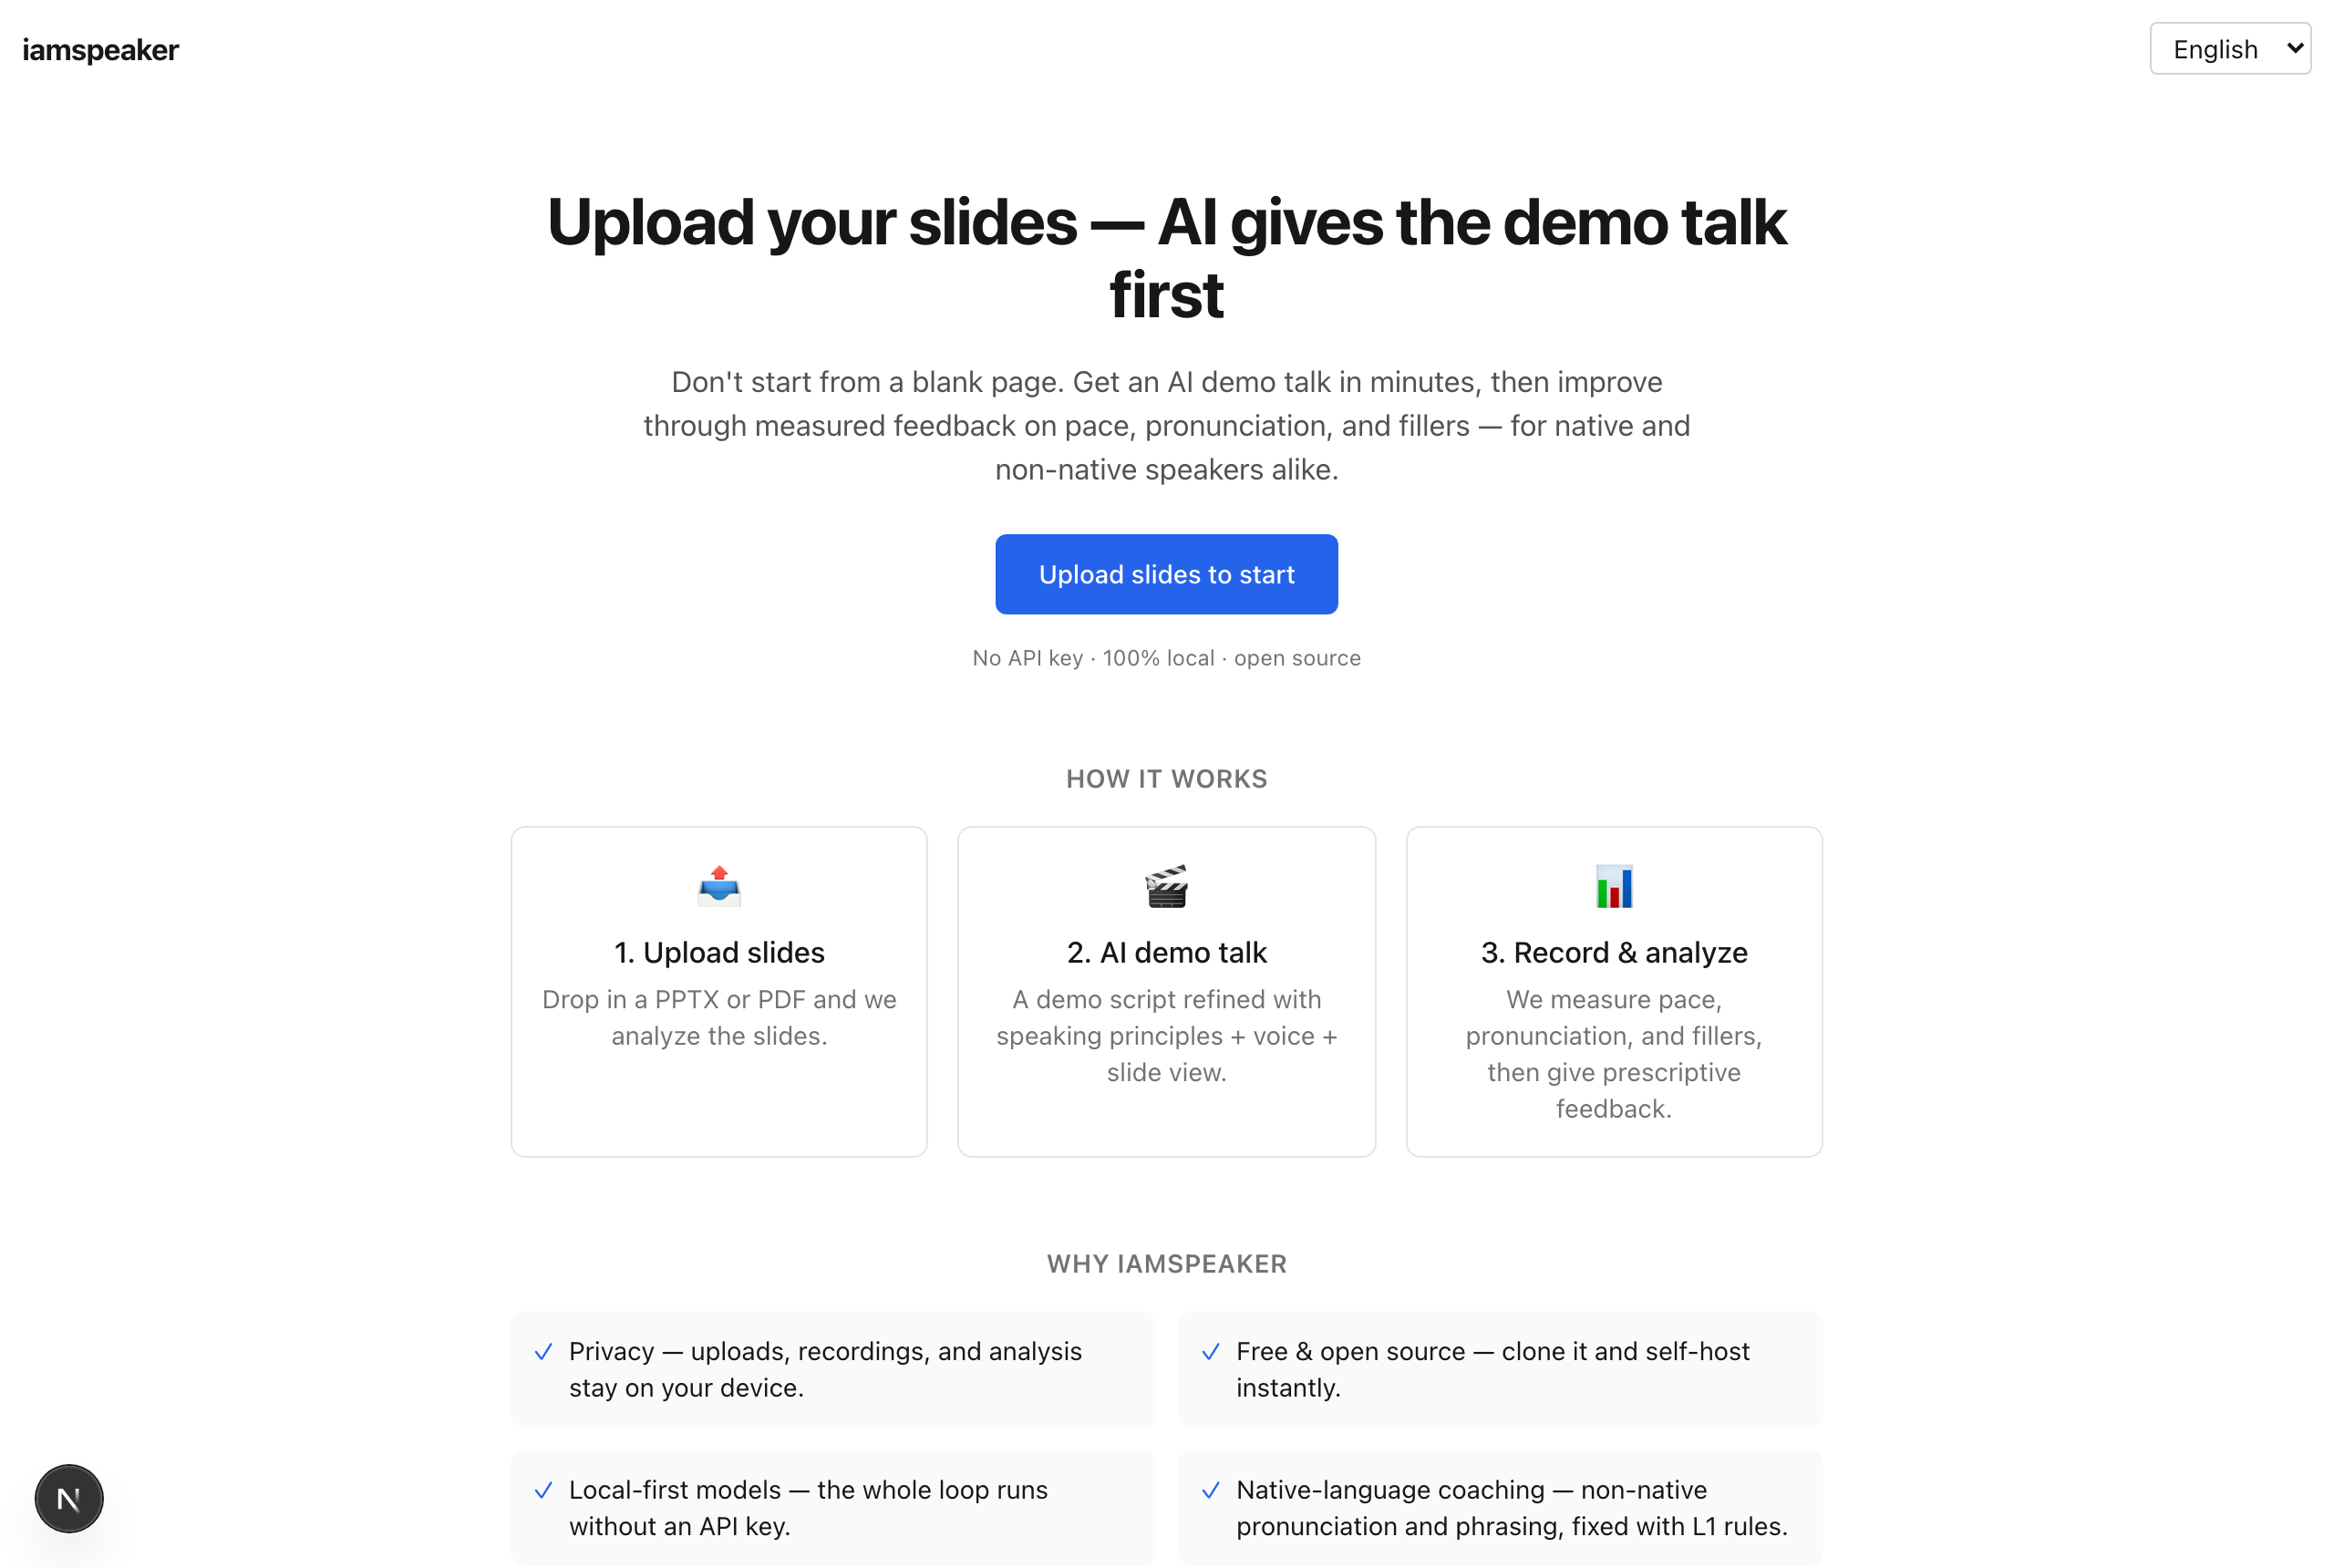
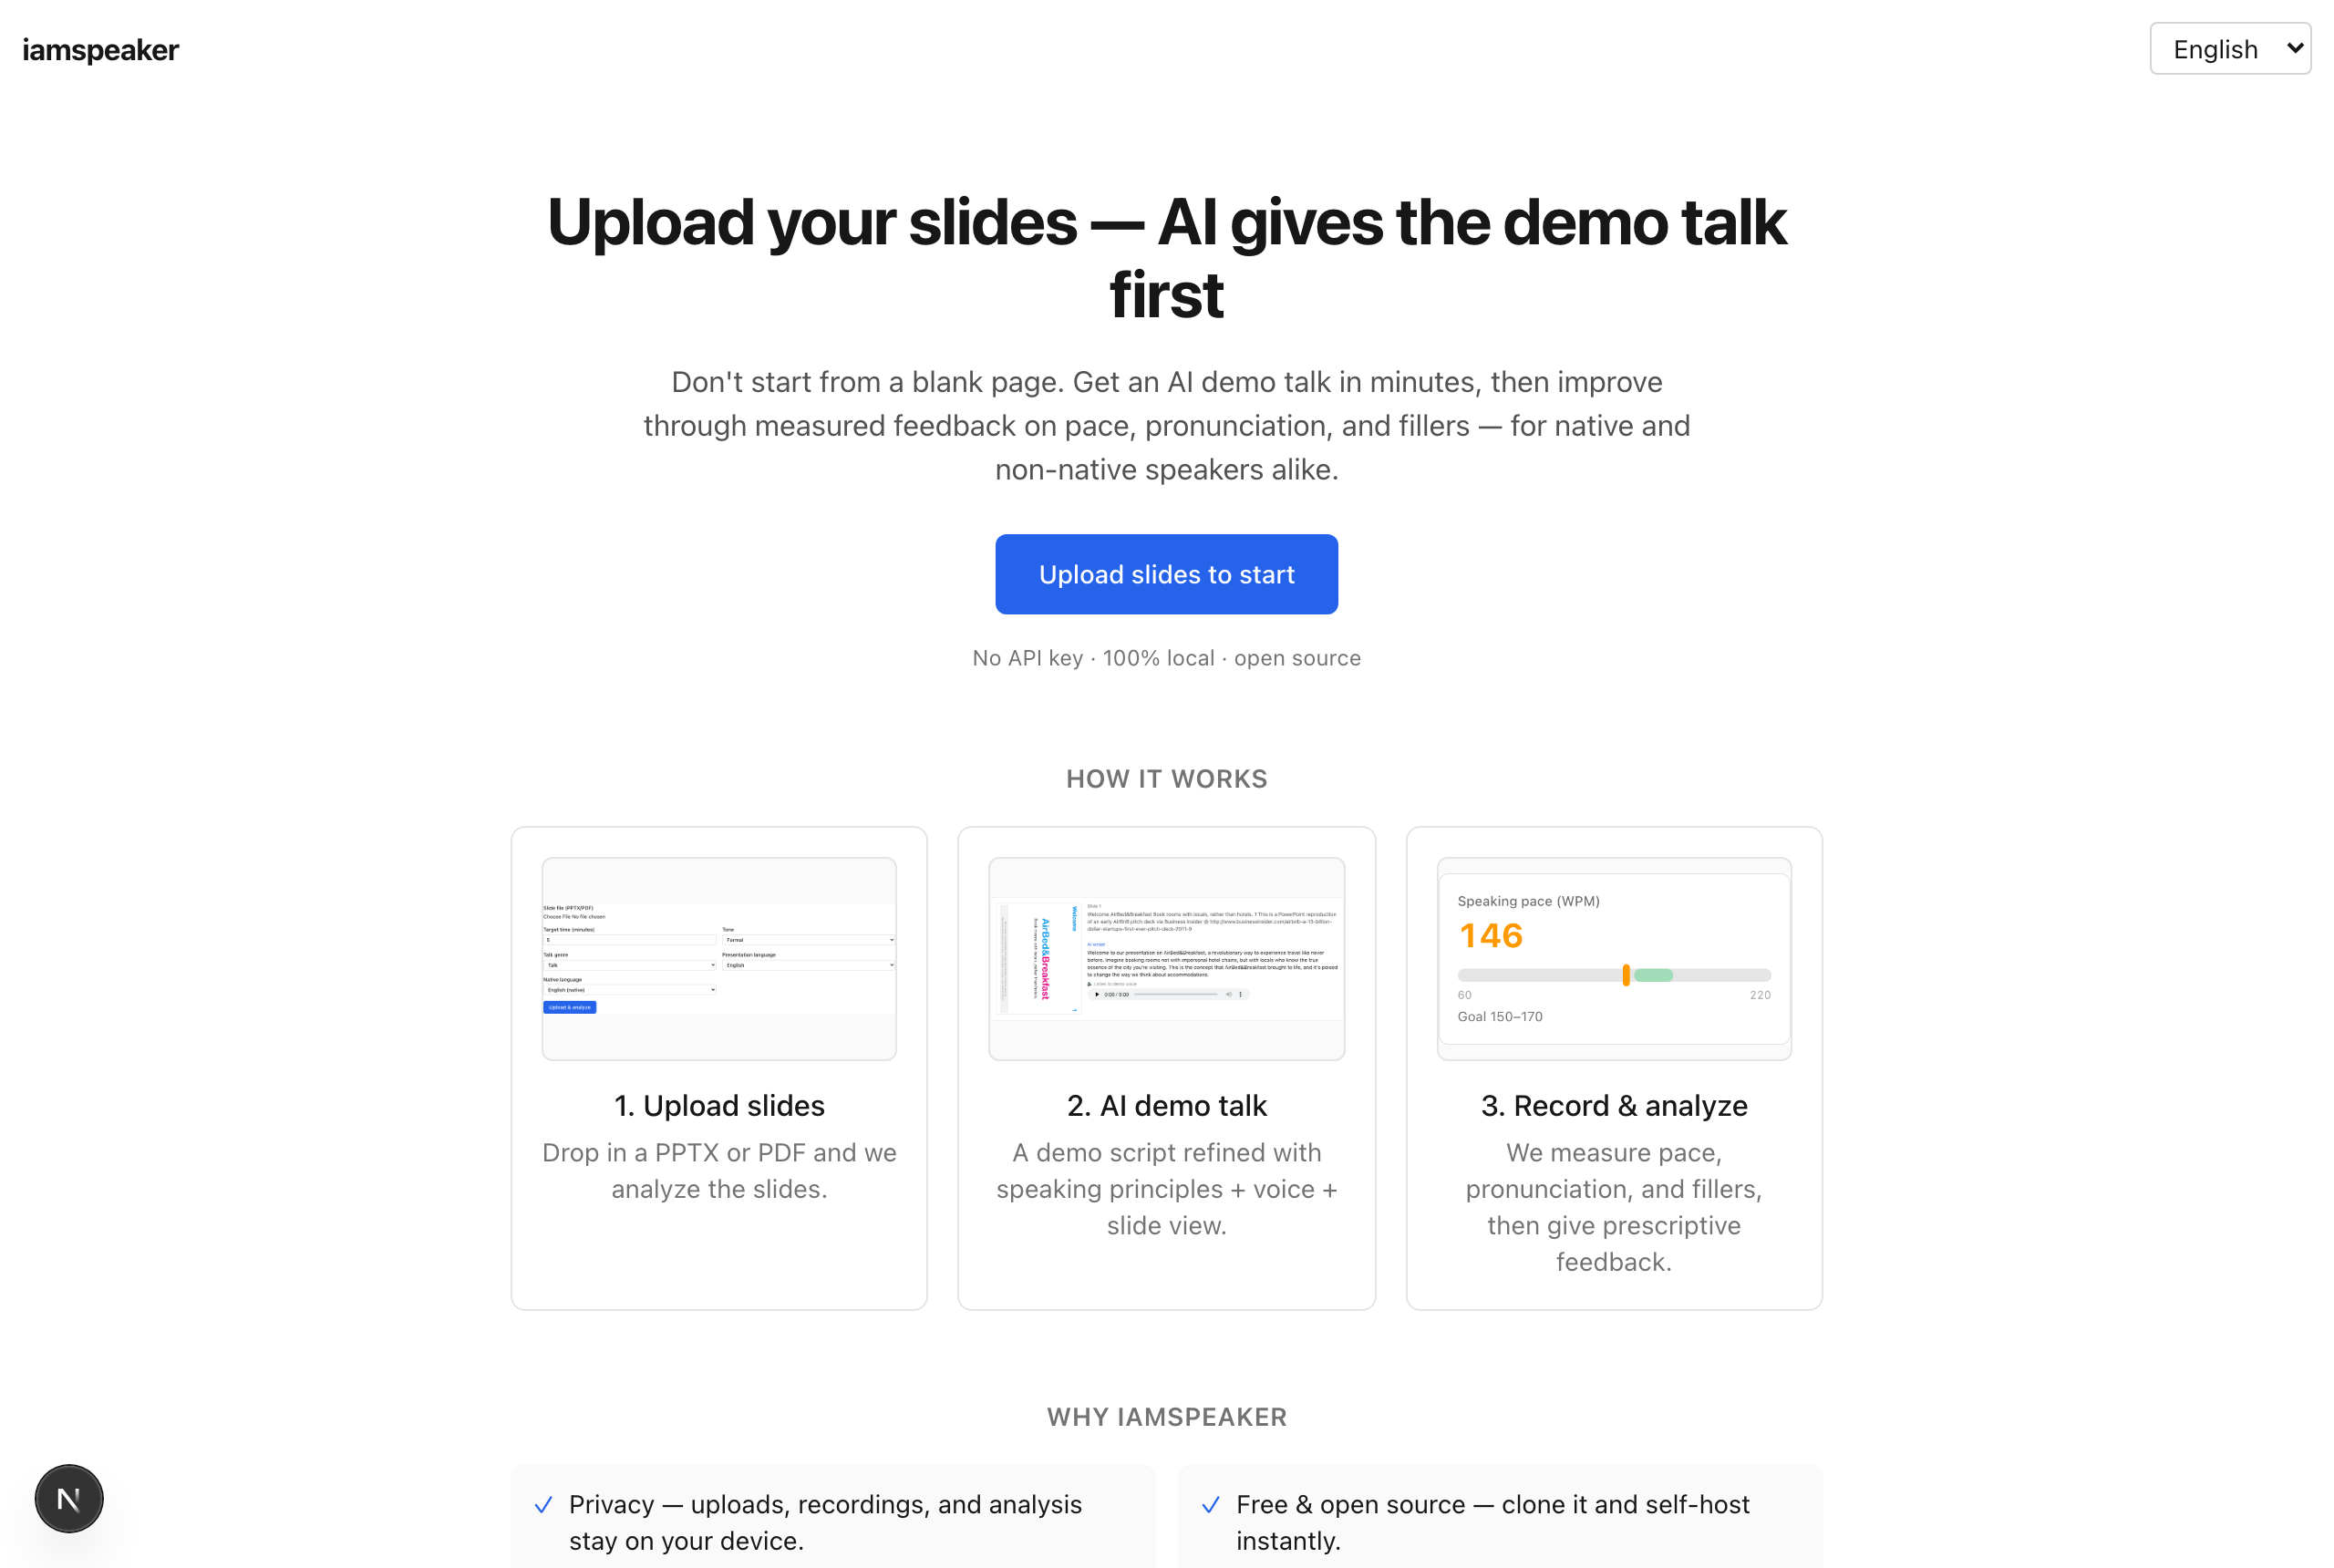
feat(SCR-01): 홈 "How it works" 카드에 실제 제품 썸네일
평범한 이모지(📤🎬📊)를 실제 화면 썸네일로 교체 — 깔끔한 3카드 틀은 유지.
②카드가 슬라이드+AI 대본을 보여줘 차별점(AI가 대본을 생성)을 텍스트가 아닌
화면으로 전달. ①업로드 설정, ③WPM 게이지 리포트. (가짜 목업·오디오 없이)

- public/landing/step{1,2,3}.png — Playwright 요소 캡처(영어 UI, object-contain 잘림 없음)
- app/page.tsx: 이모지 → 썸네일(레이아웃·카피 유지)
- report-view: 게이지 영역 캡처용 id
- README 홈 스크린샷 한·영 갱신

diff --git a/app/page.tsx b/app/page.tsx
@@ -4,9 +4,9 @@ import { useTranslations } from "next-intl";
 import Link from "next/link";
 
 const STEPS = [
-  { icon: "📤", key: "step1" },
-  { icon: "🎬", key: "step2" },
-  { icon: "📊", key: "step3" },
+  { img: "step1.png", key: "step1" },
+  { img: "step2.png", key: "step2" },
+  { img: "step3.png", key: "step3" },
 ] as const;
 
 const WHYS = ["why1", "why2", "why3", "why4"] as const;
@@ -34,16 +34,17 @@ export default function HomePage() {
           {t("home.stepsTitle")}
         </h2>
         <ol className="grid grid-cols-1 gap-4 sm:grid-cols-3">
-          {STEPS.map(({ icon, key }) => (
+          {STEPS.map(({ img, key }) => (
             <li
               key={key}
-              className="rounded-lg border border-neutral-200 p-4 text-center dark:border-neutral-800"
+              className="rounded-lg border border-neutral-200 p-4 dark:border-neutral-800"
             >
-              <div className="text-2xl" aria-hidden>
-                {icon}
+              {/* 실제 제품 화면 썸네일(영어 UI). 정적 자산 — next/image 불필요. */}
+              <div className="mb-3 flex h-28 items-center justify-center overflow-hidden rounded-md border border-neutral-200 bg-neutral-50 dark:border-neutral-800 dark:bg-neutral-900">
+                <img src={`/landing/${img}`} alt="" className="h-full w-full object-contain" />
               </div>
-              <div className="mt-2 font-medium">{t(`home.${key}Title`)}</div>
-              <p className="mt-1 text-sm text-neutral-500">{t(`home.${key}Desc`)}</p>
+              <div className="text-center font-medium">{t(`home.${key}Title`)}</div>
+              <p className="mt-1 text-center text-sm text-neutral-500">{t(`home.${key}Desc`)}</p>
             </li>
           ))}
         </ol>

diff --git a/components/report-view.tsx b/components/report-view.tsx
@@ -154,7 +154,7 @@ export function ReportView({ recordingId }: { recordingId: string }) {
       </div>
 
       {/* 헤드라인 게이지 카드 — WPM·발음·전달점수를 한눈에(Pillar ②: 직관적 진척). */}
-      <div className="grid grid-cols-1 gap-4 sm:grid-cols-3">
+      <div id="reportGauges" className="grid grid-cols-1 gap-4 sm:grid-cols-3">
         <div className="rounded-lg border border-neutral-200 p-4 dark:border-neutral-800">
           <div className="text-xs font-medium text-neutral-500">{t("wpm")}</div>
           <div